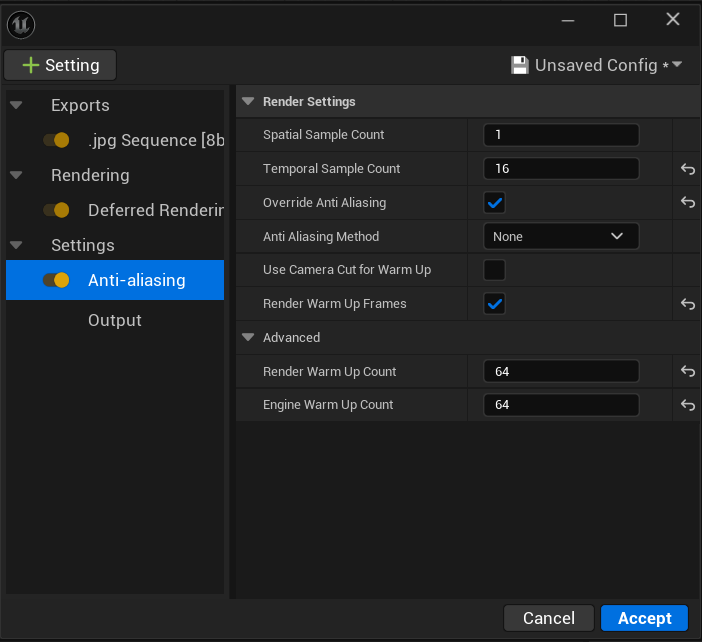
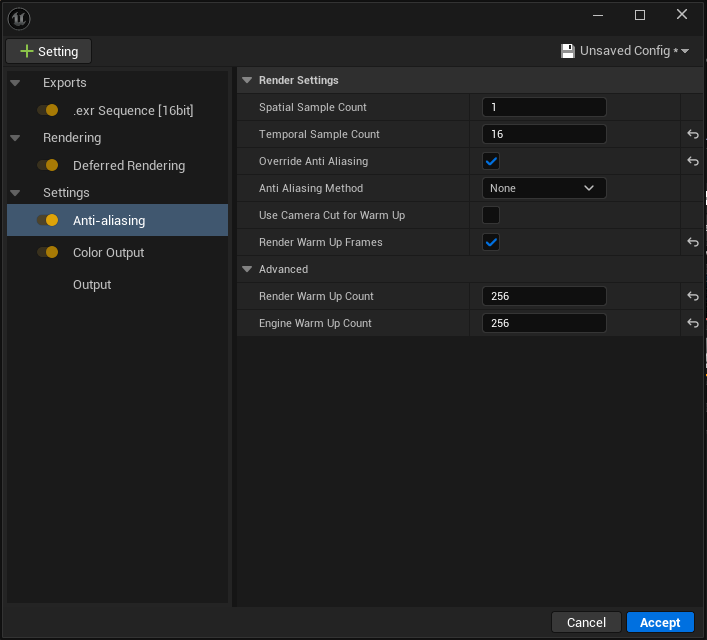
Typoes and images

diff --git a/Getting started/Using EasyWaterscape/Determinism.md b/Getting started/Using EasyWaterscape/Determinism.md
@@ -3,7 +3,7 @@ order: 90
 ---
 # Determinism for Offline Rendering
 
-> [!WARNING] This feature is in not yet published on FAB.
+> [!WARNING] This feature is not yet published on FAB.
 
 Studios using Unreal Engine for offline rendering with Movie Render Queue/Movie Render Graph often have the need for a fully deterministic approach. Meaning, if one renders frame 100-500, then later renders frames 500 to 1000, frame 500 needs to be a perfect match, the water needs to be identical. Users often need to be able to scrub through Sequencer and see the waves move and be at the exact same place frame by frame.
 This is why we've added the Deterministic toggle.
@@ -15,7 +15,7 @@ This is why we've added the Deterministic toggle.
   </figure>
 </div>
 
-This replaces the engine time with a predertermined, deterministic value that you set yourself
+This replaces the engine time with a predertermined, deterministic value that you set yourself.
 
 You will find both variables you need to work with in the 06-OfflineRendering section of EasyWaterscape:
 <div class="img-row">
@@ -40,11 +40,6 @@ Always use **Linear** keys (select the keys, right-click, Linear). Sequencer's d
 Set pre-infinity and post-infinity to Linear so the water keeps moving before the first key and after the last one.
 The Wave Speed setting still applies on top, as usual.
 
-Measures the simulation time in seconds, used when Deterministic is on. 
-In Sequencer, add EasyWaterscape to the sequence, then keyframe it on the EasyWaterscape actor with linear keys: 0 on the first frame and 10 at 10 s is normal speed, a steeper slope is faster. 
-Set post-infinity to Linear so it keeps going past the last key.
-
-
 > [!TIP] Workflow: For a 10 second shot (240 frames @24fps) at normal speed
 > 1. Have a Level Sequence open in your scene.
 > 2. Add EasyWaterscape into your Sequence (drag and drop).
@@ -66,6 +61,18 @@ Run EasyWater is only needed to see the waves move while scrubbing in the editor
 
 > [!NOTE] Multiple water bodies
 > Enable Deterministic and keyframe Wave Time on the body that has **Simulate Waves** ticked. The other bodies follow it automatically.
+
+## Movie Render Queue Tips
+Below are the recommended render settings for Movie Render Queue/Graph. 
+1. Ensure you tick "Render Warm Up Frames".
+2. Set Render and Engine Warm Up Count to a high number, consider 128+.
+   
+<div class="img-row">
+  <figure>
+    <img src="/EasyWaterscape_Docs_DeterministicRenderSettings.png" alt="Deterministic Render Settings in MRQ">
+    <figcaption>For best results, you really  need a lot of warmup frames and/or preroll.</figcaption>
+  </figure>
+</div>
 
 ## Caveats To Be Aware Of
 1. **Foam needs a few seconds of pre-roll.** Waves, shore waves, swells and ripples are exact on any frame, but Foam has "history": the long trailing foam builds up over a few seconds. Rendering the same frame range twice gives identical foam, but a render that starts in the middle of a shot starts with shorter trails.
